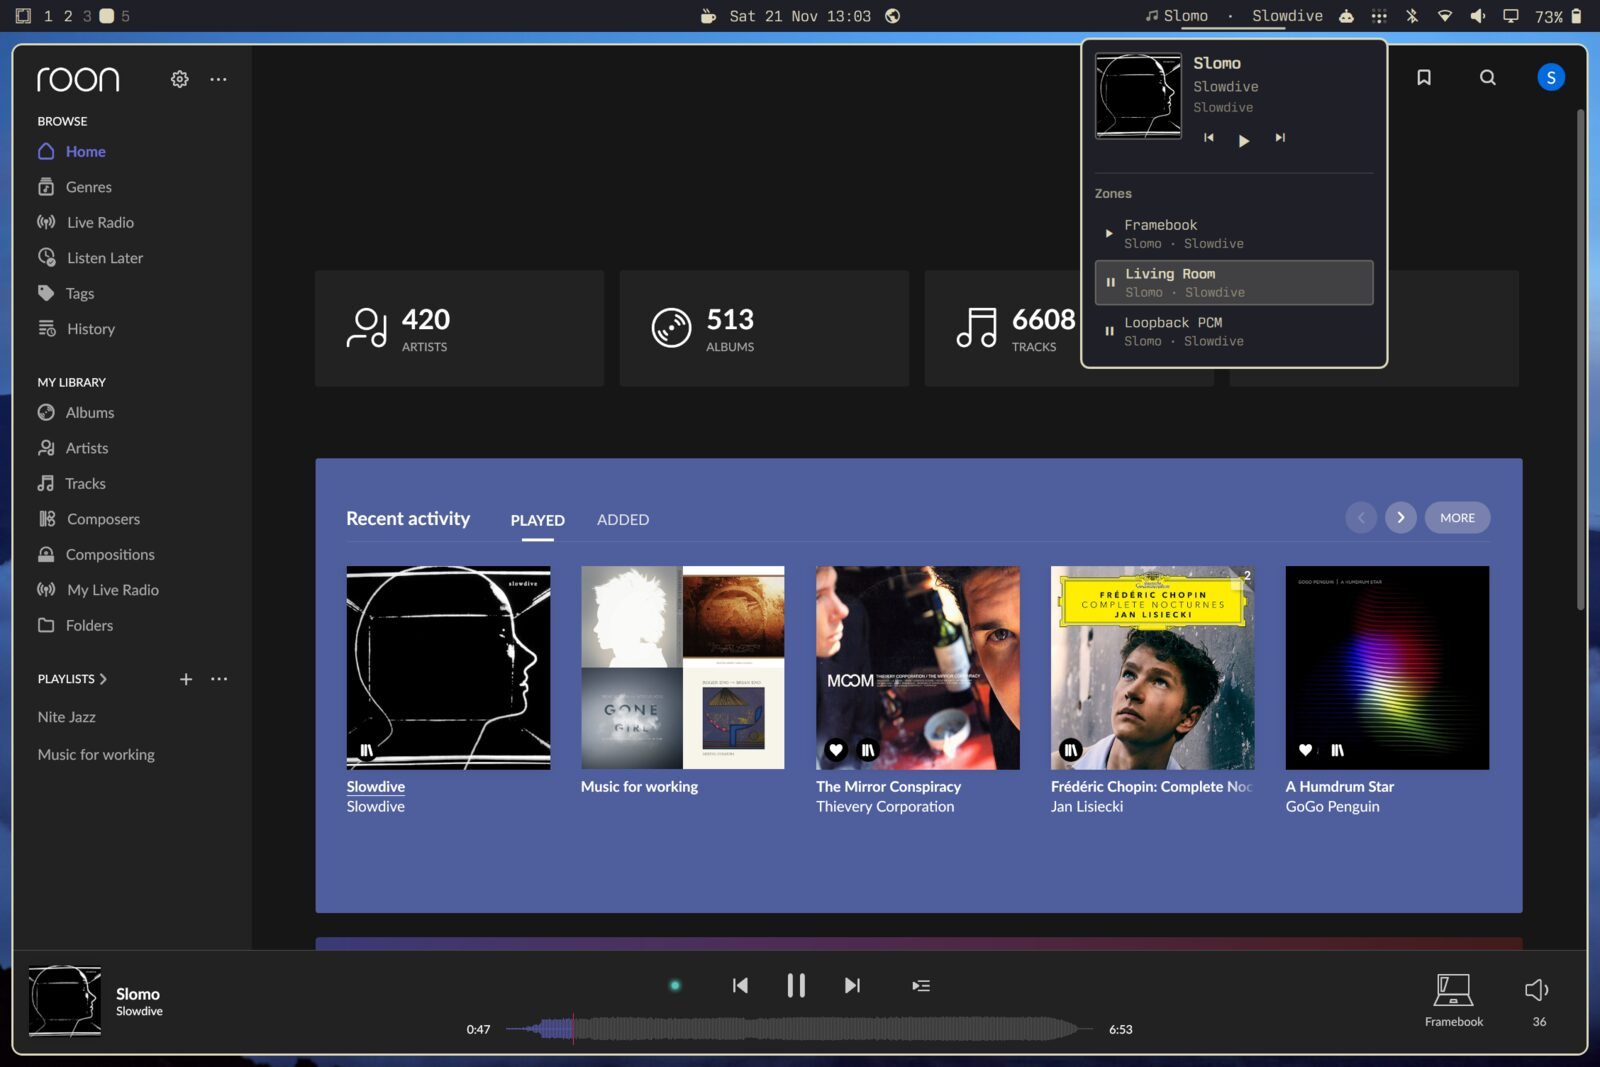
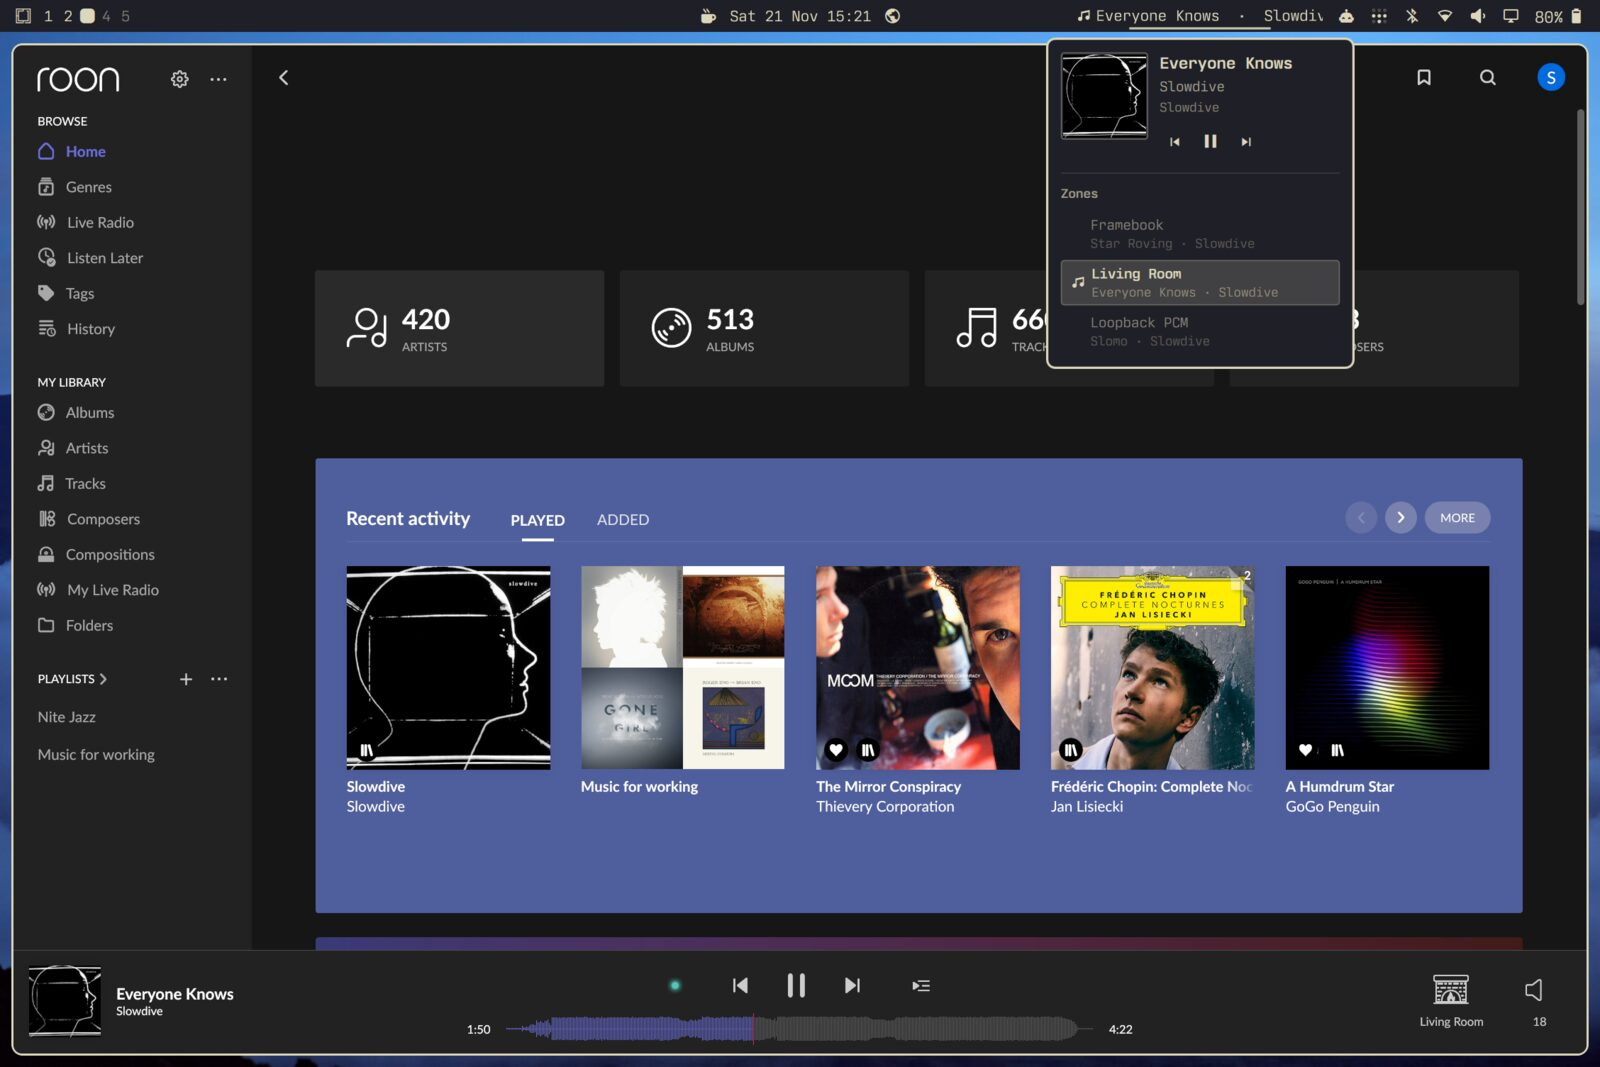
docs: Update the Roon desktop screenshot and show both in the READMEs
Retake the desktop screenshot with the current card design (dimmed idle
zones, centered controls) and show both screenshots in the root and
plugin READMEs.

diff --git a/README.md b/README.md
@@ -282,6 +282,8 @@ The [`plugin/`](plugin/) folder holds an Omarchy bar widget that shows what is
 playing on Roon, opens Roon when the album art is clicked, and moves playback
 between zones. See [plugin/README.md](plugin/README.md) for setup.
 
+![The plugin card open from the bar](docs/images/plugin-card.png)
+
 ![Roon desktop with the Omarchy bar plugin open](docs/images/roon-desktop-with-plugin.jpg)
 
 ## Troubleshooting

diff --git a/plugin/README.md b/plugin/README.md
@@ -4,6 +4,8 @@ Shows what is playing on Roon in the Omarchy bar.
 
 ![The plugin card open from the bar](../docs/images/plugin-card.png)
 
+![Roon desktop with the plugin open](../docs/images/roon-desktop-with-plugin.jpg)
+
 - The bar shows the current track and artist.
 - Click the widget to open a card with album art, play controls, and your zones.
 - Click the album art to open Roon (or focus it if it is already open).
